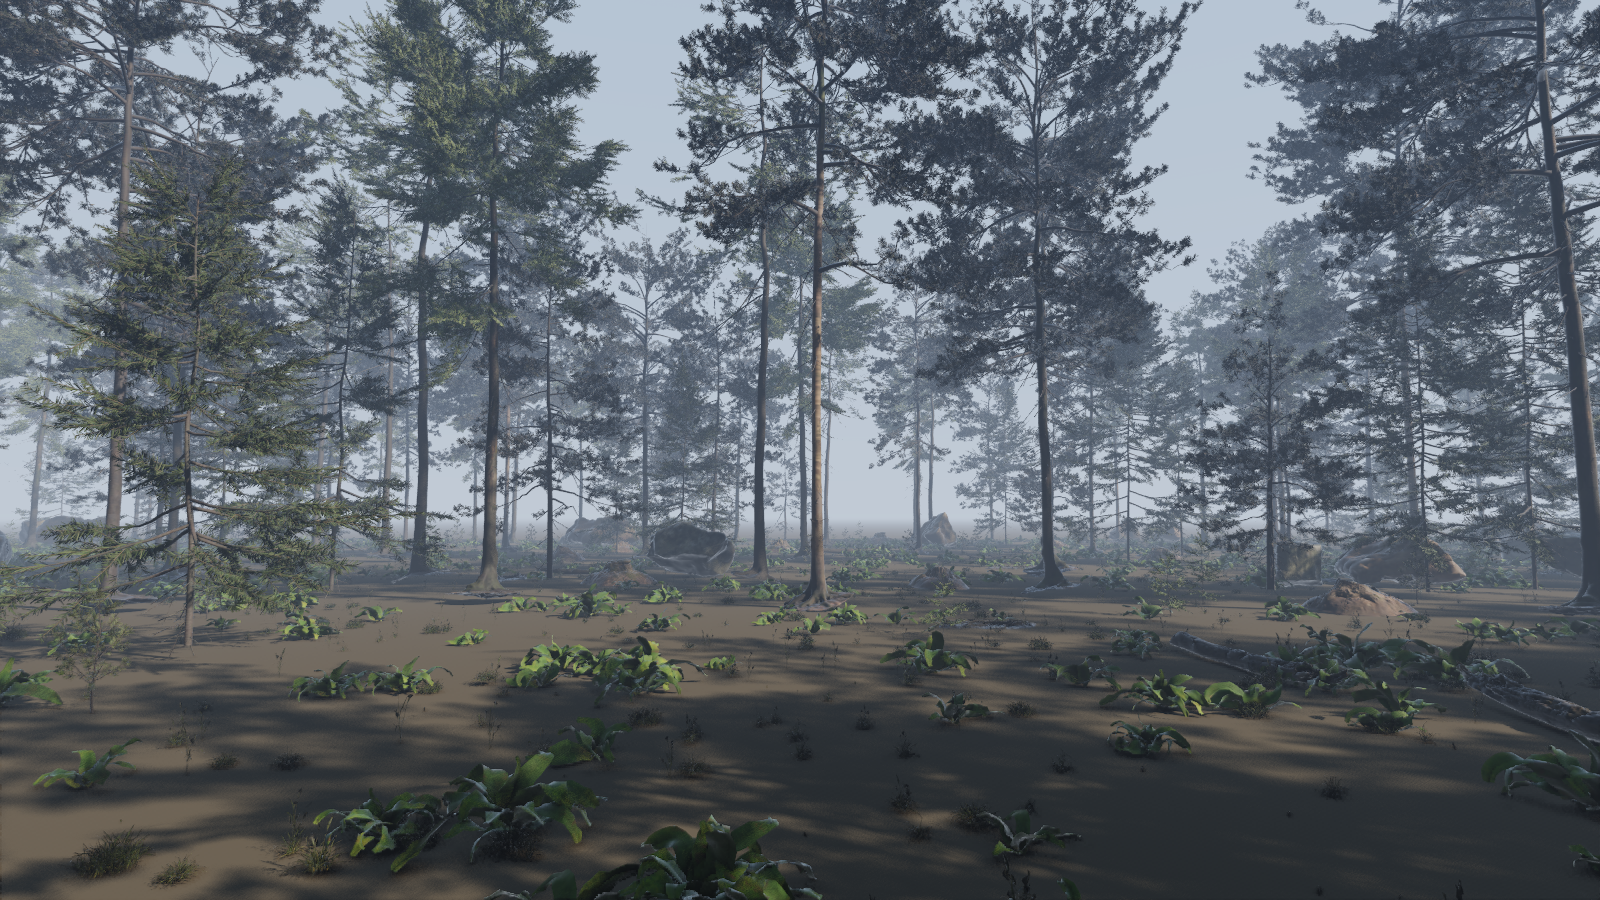
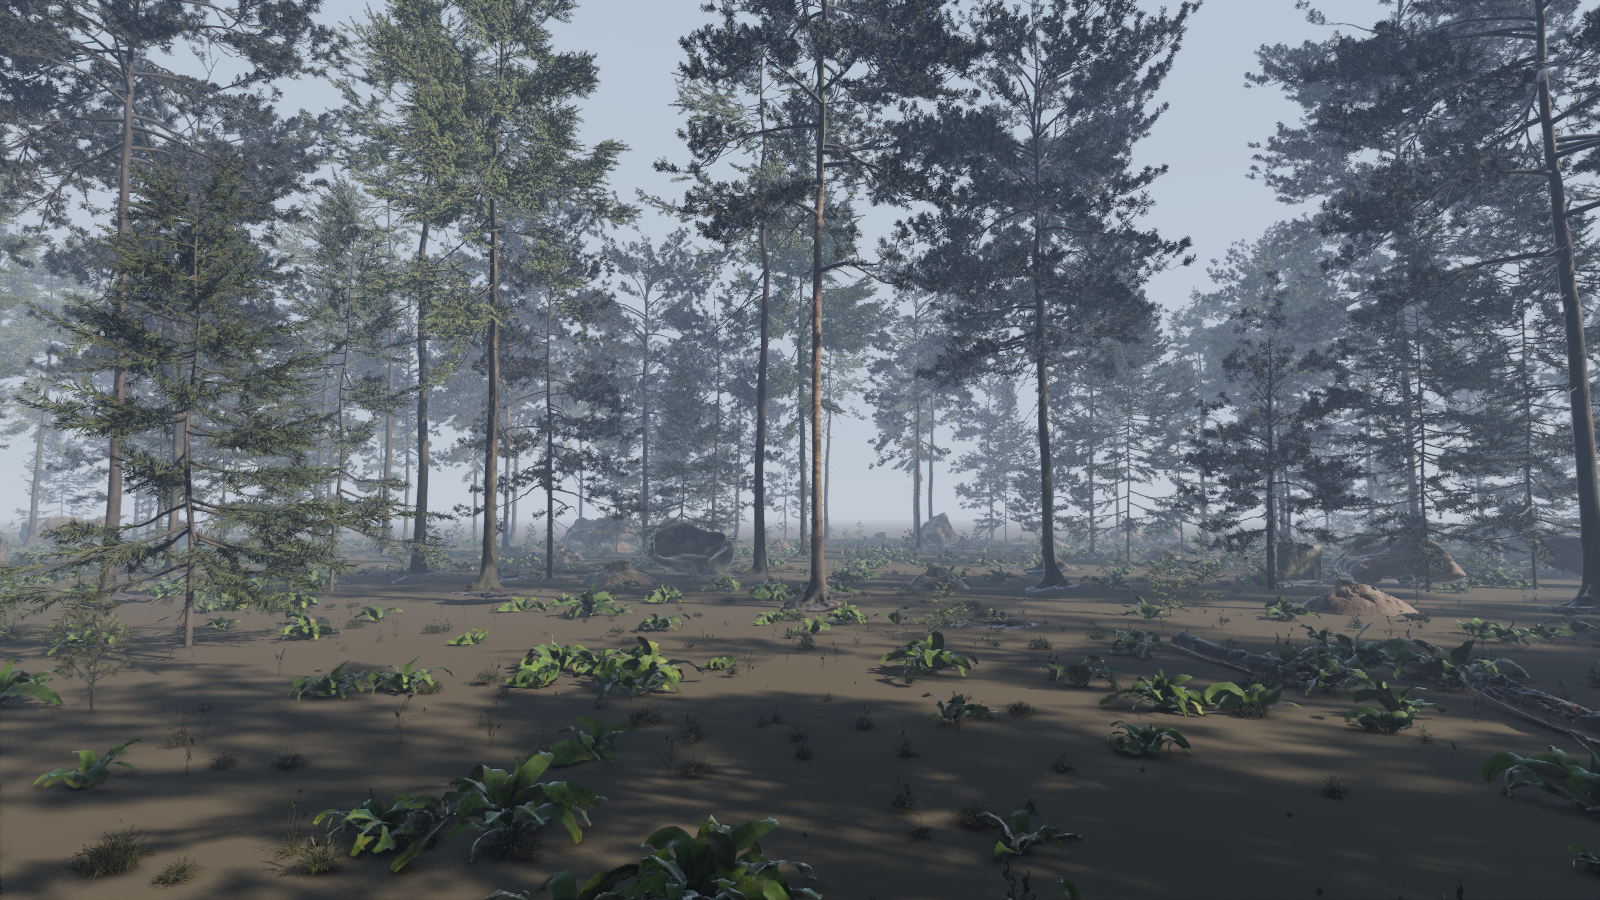
docs: measure the builder against meshoptimizer
docs/compare builds lucy and the dragon with meshoptimizer's clusterlod
at its own defaults into colossus's format (the two agree on what a
group is and when a cluster draws), and measures both through the same
renderer, so only the builder differs: make compare, then
python3 docs/compare/compare.py.

at about the same triangles clusterlod shades as well or better (lucy:
flip 0.0097 at 365.0k against 0.0119 at 374.1k) and colossus keeps
silhouettes tighter: half the coverage change or less, never past
2.24 px where clusterlod's stray 8 to 9 in the crowd. its 1 px draws
about what colossus's 2 to 4 do; the crowd at 1 px takes 1.54 ms
against 1.42, the price of the guarantee. clusterlod builds 1.6 to 3.4
times faster and its files are 4% smaller.

the readme gets that, the foliage coverage numbers (the pine at 200 m:
0.88 -> 0.95 at 1 px, 0.45 -> 0.60 at 16) and the forest at 7.26 ms,
with its image rendered from the new build.

diff --git a/docs/compare/clod_build.cpp b/docs/compare/clod_build.cpp
@@ -1,0 +1,118 @@
+// builds a colossus .cgeo with meshoptimizer's clusterlod (demo/clusterlod.h) in place of
+// colossus's own builder, so the same renderer, cameras and measurements compare the two:
+// clod_build in.ply out.cgeo [--up-z] [--check]. `make compare` builds it against a meshoptimizer
+// clone beside this one (MESHOPT=path to change); docs/compare/compare.py measures.
+#define CLUSTERLOD_IMPLEMENTATION
+#include "meshoptimizer.h"
+#include "clusterlod.h"
+
+#include "dag.hpp"
+#include "geometry_file.hpp"
+#include "lod_check.hpp"
+#include "mesh.hpp"
+#include "paged_file.hpp"
+
+#include <cfloat>
+#include <chrono>
+#include <cmath>
+#include <cstdio>
+#include <cstring>
+
+int main(int argc, char** argv) {
+    if (argc < 3) return std::fprintf(stderr, "clod_build in out.cgeo [--up-z] [--check]\n"), 1;
+    bool up_z = false, check = false;
+    for (int i = 3; i < argc; ++i) {
+        up_z |= !std::strcmp(argv[i], "--up-z");
+        check |= !std::strcmp(argv[i], "--check");
+    }
+    const auto start = std::chrono::steady_clock::now();
+    auto since = [&] { return std::chrono::duration<double>(std::chrono::steady_clock::now() - start).count(); };
+
+    // loaded, welded and placed as colossus_build does.
+    mesh m = load_mesh(argv[1]);
+    weld(m);
+    normalize_placement(m, up_z);
+    const std::vector<vec3> normals = vertex_normals(m);
+    std::printf("read %s: %zu vertices, %zu triangles (%.1fs)\n", argv[1], m.positions.size(), m.triangle_count(), since());
+
+    // meshoptimizer's own defaults, as its nanite demo uses them: 128 triangles and vertices a
+    // cluster, normals as attributes at weight 0.5.
+    std::vector<float> attributes(normals.size() * 3);
+    for (size_t i = 0; i < normals.size(); ++i) std::memcpy(&attributes[3 * i], &normals[i], 12);
+    const float weights[3] = {0.5f, 0.5f, 0.5f};
+    clodConfig config = clodDefaultConfig(128);
+    clodMesh cm = {};
+    cm.indices = m.indices.data();
+    cm.index_count = m.indices.size();
+    cm.vertex_count = m.positions.size();
+    cm.vertex_positions = &m.positions[0].x;
+    cm.vertex_positions_stride = sizeof(vec3);
+    cm.vertex_attributes = attributes.data();
+    cm.vertex_attributes_stride = 12;
+    cm.attribute_weights = weights;
+    cm.attribute_count = 3;
+
+    // a clusterlod group is a colossus group: its clusters were simplified together into
+    // `simplified`, their parent; each cluster's own error is that of the group it came from
+    // (refined), or none for a leaf. a terminal group (error FLT_MAX) holds roots.
+    lod_mesh lod;
+    lod.positions = m.positions;
+    lod.normals = normals;
+    std::vector<clodBounds> simplified;
+    std::vector<int> depth;
+    std::vector<lod_cluster> clusters;
+    clodBuild(config, cm, [&](clodGroup group, const clodCluster* cs, size_t count) -> int {
+        const int id = int(simplified.size());
+        simplified.push_back(group.simplified);
+        depth.push_back(group.depth);
+        const bool root = group.simplified.error == FLT_MAX;
+        for (size_t i = 0; i < count; ++i) {
+            lod_cluster c;
+            c.indices.assign(cs[i].indices, cs[i].indices + cs[i].index_count);
+            c.corners = c.indices;
+            cluster_bounds(lod.positions, c);
+            c.level = uint32_t(group.depth);
+            c.group = root ? UINT32_MAX : uint32_t(id);
+            c.creator = cs[i].refined < 0 ? UINT32_MAX : uint32_t(cs[i].refined);
+            if (cs[i].refined < 0) {
+                c.lod_bounds = c.bounds;
+                c.lod_error = 0;
+            } else {
+                const clodBounds& b = simplified[size_t(cs[i].refined)];
+                c.lod_bounds = {{b.center[0], b.center[1], b.center[2]}, b.radius};
+                c.lod_error = b.error;
+            }
+            if (root) {
+                c.parent_bounds = c.lod_bounds;
+                c.parent_error = INFINITY;
+            } else {
+                c.parent_bounds = {{group.simplified.center[0], group.simplified.center[1], group.simplified.center[2]}, group.simplified.radius};
+                c.parent_error = group.simplified.error;
+            }
+            clusters.push_back(std::move(c));
+        }
+        return id;
+    });
+    std::stable_sort(clusters.begin(), clusters.end(), [](const lod_cluster& a, const lod_cluster& b) { return a.level < b.level; });
+    lod.clusters = std::move(clusters);
+    for (const lod_cluster& c : lod.clusters) {
+        if (lod.levels.size() <= c.level) lod.levels.resize(c.level + 1);
+        lod_level_stats& s = lod.levels[c.level];
+        ++s.clusters;
+        s.triangles += c.indices.size() / 3;
+        s.max_error = std::max(s.max_error, c.lod_error);
+    }
+    for (size_t g = 0; g < depth.size(); ++g) ++lod.levels[size_t(depth[g])].groups;
+    std::printf("clusterlod: %zu clusters, %zu groups, %zu levels (%.1fs)\n", lod.clusters.size(), simplified.size(), lod.levels.size(), since());
+
+    const geometry g = pack(lod);
+    if (check) {
+        size_t cracked = 0;
+        for (const cut_report& r : check_cuts(g, 24)) cracked += r.cracked_edges;
+        std::printf("cracked edges over 25 cuts: %zu\n", cracked);
+    }
+    const paged_geometry paged = page(g);
+    save_paged(paged, argv[2]);
+    std::printf("wrote %s: %zu clusters, %zu pages, %.0f MB (%.1fs)\n", argv[2], paged.clusters.size(), paged.pages.size(),
+                paged.data_size / 1048576.0, since());
+}

diff --git a/docs/compare/compare.py b/docs/compare/compare.py
@@ -1,0 +1,60 @@
+"""colossus's builder against meshoptimizer's clusterlod, through the same renderer: python3
+docs/compare/compare.py (after make compare and models/fetch.sh). each view is drawn from both
+builds at several thresholds and measured, as docs/quality.py measures, against one full-detail
+reference (the leaves are the same triangles in both)."""
+import os
+import shutil
+import subprocess
+import sys
+import tempfile
+
+HERE = os.path.dirname(os.path.abspath(__file__))
+ROOT = os.path.dirname(os.path.dirname(HERE))
+sys.path.insert(0, os.path.join(ROOT, "docs"))
+import quality as q  # noqa: E402
+
+BUILDS = {
+    "colossus": {"lucy": "models/lucy.cgeo", "dragon": "models/xyzrgb_dragon.cgeo"},
+    "clusterlod": {"lucy": "models/lucy_clod.cgeo", "dragon": "models/dragon_clod.cgeo"},
+}
+SOURCES = {"lucy": ("models/lucy.ply", ["--up-z"]), "dragon": ("models/xyzrgb_dragon.ply", [])}
+VIEWS = [
+    ("lucy, close", ["lucy"], ["--camera", "0.32,0.78,-0.42,-2.46,-0.2"]),
+    ("dragon, whole", ["dragon"], ["--camera", "0.0,0.35,1.3,0.0,-0.2"]),
+    ("crowd of 9", ["lucy", "dragon"], ["--grid", "3", "--spacing", "1.25", "--camera", "-0.4,0.55,2.6,0.25,-0.15"]),
+]
+THRESHOLDS = [0.5, 1, 2, 4]
+
+
+def view_args(build, models, rest):
+    args = []
+    for m in models:
+        args += ["--model", BUILDS[build][m]]
+    return args + rest
+
+
+def main():
+    for m, out in BUILDS["clusterlod"].items():
+        if not os.path.exists(os.path.join(ROOT, out)):
+            src, flags = SOURCES[m]
+            subprocess.run([os.path.join(HERE, "clod_build"), src, out, *flags], cwd=ROOT, check=True)
+    tmp = tempfile.mkdtemp(prefix="colossus_compare_")
+    print("| view | builder | threshold | triangles | coverage differs | farthest from silhouette | flip | pixels off by over 8/255 |")
+    print("|---|---|---|---|---|---|---|---|")
+    for name, models, rest in VIEWS:
+        ref = view_args("colossus", models, rest)
+        q.render(ref, 0.05, 10, f"{tmp}/ref_cov.png")
+        q.render(ref, 0.05, 0, f"{tmp}/ref.png")
+        for build in BUILDS:
+            for t in THRESHOLDS:
+                v = view_args(build, models, rest)
+                tris = q.render(v, t, 10, f"{tmp}/cov.png")
+                q.render(v, t, 0, f"{tmp}/img.png")
+                cov, far = q.coverage(f"{tmp}/ref_cov.png", f"{tmp}/cov.png")
+                mean, off, _ = q.shaded(f"{tmp}/ref.png", f"{tmp}/img.png")
+                print(f"| {name} | {build} | {t} px | {tris} | {100 * cov:.3f}% | {far:.2f} px | {mean:.4f} | {100 * off:.2f}% |", flush=True)
+    shutil.rmtree(tmp)
+
+
+if __name__ == "__main__":
+    main()

diff --git a/README.md b/README.md
@@ -14,8 +14,9 @@ shadows and shading all live in this repository.
 webgpu port, with the debug views, the error threshold and the crowd size to play with.
 
 **[read how it was built →](https://abirdeol.tech/abir-deol-colossus-within-a-pixel.pdf)**
-*within a pixel*, a 9 page write-up: the hierarchy, the proven error bound and how it's
-checked, streaming, textures, skinning, foliage, and where the proofs ran out.
+*within a pixel*, a 10 page write-up: the hierarchy, the proven error bound and how it's
+checked, streaming, textures, skinning, foliage, a comparison with meshoptimizer, and where
+the proofs ran out.
 
 ![900 instances of lucy and the xyz rgb dragon in sunlight, shadowed by virtual shadow maps](docs/crowd.png)
 
@@ -58,14 +59,16 @@ story; in short:
 * **real content.** textures stream as tiles through the same pool, wedges carrying
   coordinates and materials through simplification. skinned gltf models play their
   animations, errors measured in their poses. foliage, thousands of needles that edge
-  collapse won't delete, falls back to vertex clustering that keeps outlines whole.
+  collapse won't delete, falls back to vertex clustering that keeps outlines whole, grows
+  what's left to keep the area of what merged away, and counts lost area in its error, so
+  crowns stay full at a distance.
 
 the commit messages have every step's numbers.
 
 ![a pine forest at eye level: tall pines and firs, saplings, ferns, grass and mossy rocks in hazy light](docs/forest.png)
 
 poly haven's cc0 pine forest (`python3 models/forest.py`): 55 models scattered into 14,780
-instances, 753 million triangles at full detail, 89.8 million drawn in 5.63 ms at
+instances, 753 million triangles at full detail, 138.9 million drawn in 7.26 ms at
 1920x1080.
 
 ![horatio greenough's george washington, scanned by the smithsonian, close up in its own texture](docs/washington.png)
@@ -103,6 +106,46 @@ at one pixel every pixel whose coverage changes touches the full-detail silhouet
 most a diagonal step from it. what's left is shading: a coarse triangle interpolates
 normals over a larger span, and the bound says nothing about normals.
 
+foliage needed more than a distance. a crown with half its needles gone is still close to
+every needle that's left, so a hausdorff bound lets it thin. a foliage group's error now
+also counts the area it lost (its square root, so a cut at t pixels loses about t² pixels
+of coverage a group), and clustered pieces grow back the area of what merged into them. one
+pine at 200 m keeps 0.95 of its full-detail coverage at 1 px (0.88 before), 0.85 at 4 px
+(0.72), 0.60 at 16 px (0.45). it costs triangles honestly: the forest draws 139 million
+where it drew 90, 7.26 ms where it took 5.63. at equal coverage it needs about half as
+many as before.
+
+## against meshoptimizer
+
+`docs/compare` builds lucy and the dragon with meshoptimizer's
+[clusterlod](https://github.com/zeux/meshoptimizer/blob/master/demo/clusterlod.h), its
+reference nanite-style builder at its own defaults, into colossus's format, and measures
+both through the same renderer: only the builder differs (`make compare`, then
+`python3 docs/compare/compare.py`).
+
+| view | builder | threshold | triangles | coverage differs | farthest from silhouette | flip |
+|---|---|---|---|---|---|---|
+| lucy, close | colossus | 1 px | 374.1k | 0.011% | 1.41 px | 0.0119 |
+| lucy, close | clusterlod | 0.5 px | 365.0k | 0.012% | 1.41 px | 0.0097 |
+| dragon, whole | colossus | 1 px | 273.9k | 0.007% | 0.00 px | 0.0044 |
+| dragon, whole | clusterlod | 0.5 px | 240.9k | 0.012% | 0.00 px | 0.0038 |
+| crowd of nine | colossus | 2 px | 518.6k | 0.038% | 0.00 px | 0.0129 |
+| crowd of nine | clusterlod | 1 px | 462.3k | 0.068% | 1.41 px | 0.0124 |
+| crowd of nine | colossus | 4 px | 235.5k | 0.076% | 2.24 px | 0.0178 |
+| crowd of nine | clusterlod | 2 px | 230.9k | 0.132% | 8.00 px | 0.0167 |
+
+at about the same triangles, clusterlod shades as well or better (its simplifier weighs
+normals; colossus's measures position), and colossus keeps silhouettes tighter: half the
+coverage change or less, and never more than 2.24 px out where clusterlod's stray 8 to 9.
+the thresholds mean different things: clusterlod's is an estimate, and its 1 px draws about
+what colossus's 2 to 4 px does. through the same renderer a triangle costs the same, so the
+crowd at 1 px is 1.54 ms against 1.42 (measured the same day), the price of the guarantee.
+clusterlod builds 1.6 to 3.4 times faster (lucy 78 s against 264) and its files are 4% smaller.
+
+pricing collapses by the change of normal too (`--normal-weight 1`) closes some of the
+shading gap: flip 5 to 10% lower at equal triangles, though each pixel of threshold then
+takes more triangles. it's off by default.
+
 ## performance
 
 rx 9070 xt (radv, mesa 26.2.4), 1920x1080, the 900 instance scene, median of 200 frames
@@ -119,7 +162,7 @@ after 100 of streaming. shading includes shadows and antialiasing.
 | a million instances | 1.81 ms |
 | a million, 1% moving | 2.01 ms |
 | 900 skinned foxes | 1.86 ms |
-| the forest | 5.63 ms |
+| the forest | 7.26 ms |
 | in chrome (webgpu), 900 statues | 1.73 ms |
 
 ## in the browser
@@ -191,10 +234,10 @@ builds the viewer on every push.
   pages every frame (a million foxes: 8.77 ms, 4.32 of it shadows).
 * textures are colour only, with no alpha: a card meant as a cutout draws as its whole
   quad. the browser takes one texture per model.
-* foliage simplifies by vertex clustering, which thins crowns at a distance, and costs the
-  most of anything here: the forest draws 90 million triangles where 900 statues draw 4.8.
-  a scene whose pages outgrow the pool thrashes (the forest in 1 gb: 24.6 ms instead of
-  5.6), so scene files can ask for a bigger pool.
+* foliage costs the most of anything here: keeping crowns full, the forest draws 139
+  million triangles where 900 statues draw 4.8. coverage is measured as area, which
+  overlapping needles overstate. a scene whose pages outgrow the pool thrashes, so scene
+  files can ask for a bigger pool.
 * every number here is from one gpu, an rx 9070 xt on radv.
 
 ## models
